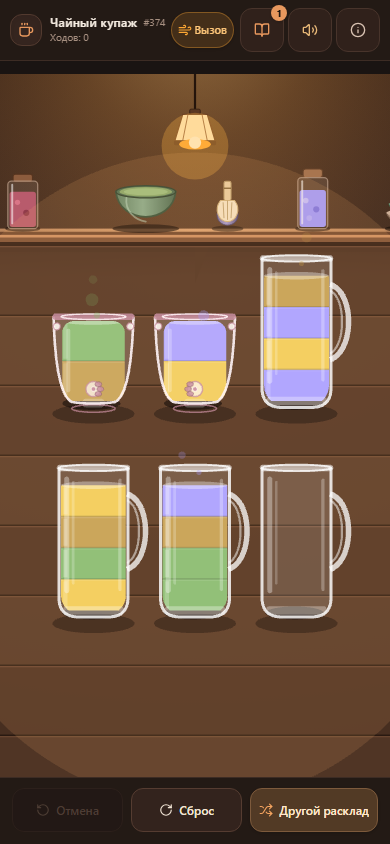
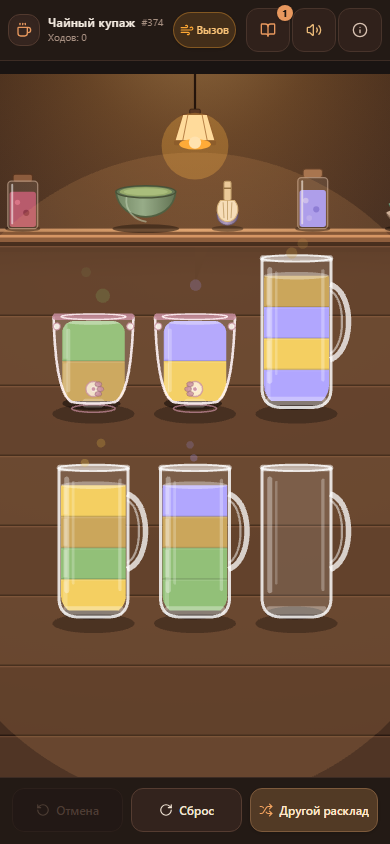
fix: keep four-digit header controls inside mobile viewports
CI found the info button 1-3px offscreen at 360/390px with four-digit level numbers. Tightens base header padding and right-icon gap without reducing 44px controls. Regenerates the G19 mobile screenshots.

diff --git a/src/App.tsx b/src/App.tsx
@@ -671,7 +671,7 @@ export default function App() {
       {/* Top Header */}
       <header
         id="app-header"
-        className="shrink-0 flex items-center justify-between px-2.5 sm:px-4 py-2 sm:py-2.5 pt-[max(8px,env(safe-area-inset-top))] bg-[#241A16]/95 border-b border-[#3D2C24] backdrop-blur-md z-20 gap-1.5"
+        className="shrink-0 flex items-center justify-between px-2 sm:px-4 py-2 sm:py-2.5 pt-[max(8px,env(safe-area-inset-top))] bg-[#241A16]/95 border-b border-[#3D2C24] backdrop-blur-md z-20 gap-1.5"
       >
         <div className="flex items-center gap-2 shrink-0">
           <div className="w-8 h-8 sm:w-9 sm:h-9 rounded-xl bg-[#35251F] border border-[#523A2F] flex items-center justify-center text-[#E8985E] shadow-inner shrink-0">
@@ -705,7 +705,7 @@ export default function App() {
         </div>
 
         {/* Right action icons with >=44px mobile touch ergonomics */}
-        <div className="flex items-center gap-1 sm:gap-1.5 shrink-0">
+        <div className="flex items-center gap-0.5 sm:gap-1.5 shrink-0">
           {/* Recipe Book / Shelf */}
           <button
             id="recipe-book-btn"

diff --git a/docs/g19-final-report.md b/docs/g19-final-report.md
@@ -169,6 +169,15 @@ are in the report table.
 98. Worktree removed: **PENDING** after merge.
 99. WIP intact: **PENDING** final fingerprint.
 
+## CI follow-up
+
+- First PR CI run caught a real 4-digit header overflow at 360/390 px
+  (info button exceeded the viewport by 1–3 px). The fix tightens the base
+  header padding and right-icon gap without shrinking the 44 px controls.
+  Targeted 360/390 L1000/L1600 E2E, the full CI browser subset, typecheck,
+  visual-contract tests and the full E2E suite were rerun on the fixed tree.
+  No test tolerance was widened.
+
 ## Limitations
 
 - Historical boundary debt is separate from V2 steady-state behavior:
